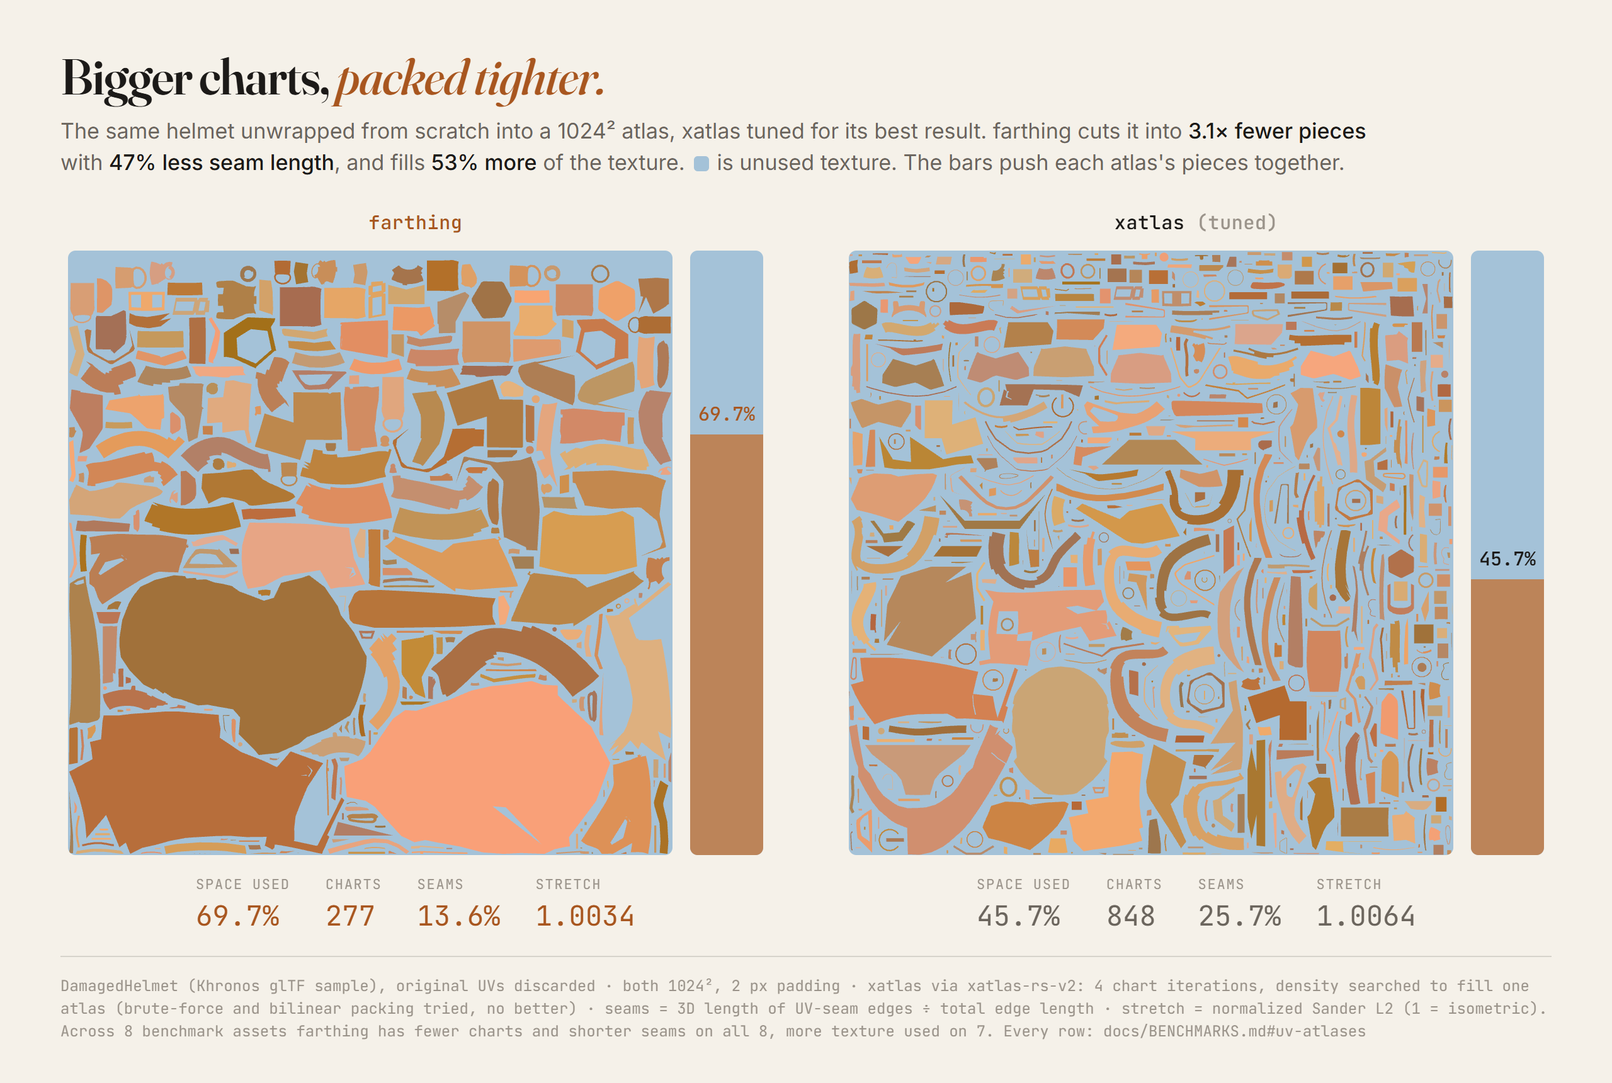
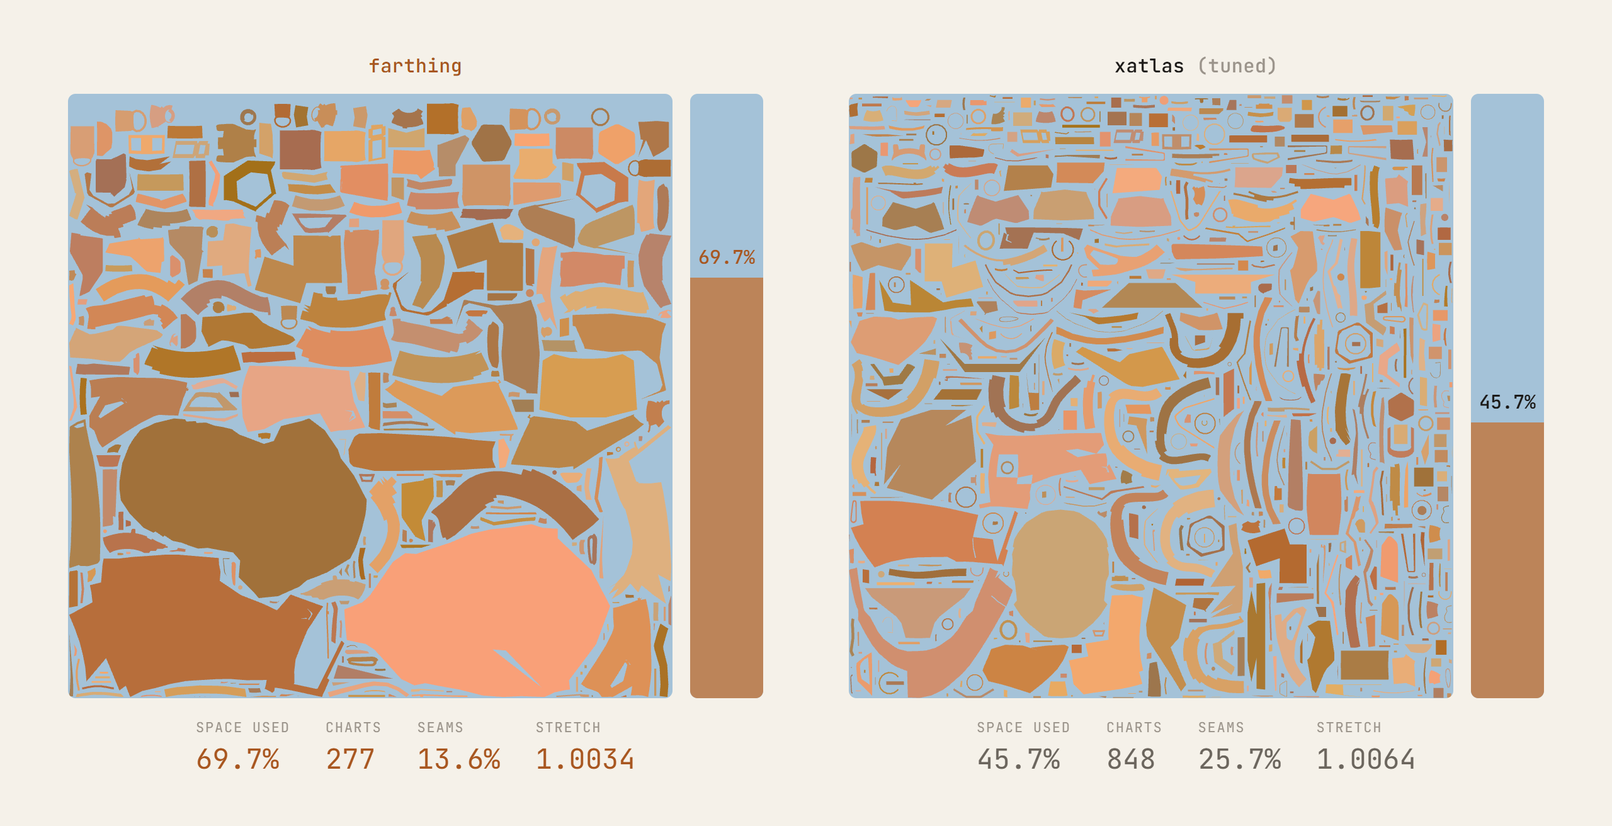
Move README figure text out of the images
The figures' titles, leads and footers were drawn into the PNGs, so search
engines, screen readers and translation couldn't reach them. The README now
carries that text: a heading in the figures' style, the lead paragraph, the
image, and the footer as a caption. The sheets drop their text and are
recaptured; the five figures without a source are cropped to the figure.
Also corrects the reducer's speed cost to 5-9x, matching BENCHMARKS.md.

diff --git a/demo-web/readme/recut.html b/demo-web/readme/recut.html
@@ -7,10 +7,9 @@
 <link rel="stylesheet" href="fig.css">
 <style>
   .head { display: flex; gap: 32px; align-items: flex-end; }
-  .head > div:first-child { flex: 1; }
   .atlas { flex: none; display: flex; gap: 14px; align-items: flex-end; }
   .atlas canvas { display: block; border-radius: 8px; }
-  .cap { width: 190px; font-family: "JetBrains Mono", monospace; font-size: 12px; color: var(--faint); line-height: 1.5; text-align: right; }
+  .cap { width: 420px; font-family: "JetBrains Mono", monospace; font-size: 13px; color: var(--faint); line-height: 1.5; }
   .cap b { color: var(--muted); font-weight: 500; }
   .grid { display: grid; grid-template-columns: 112px repeat(5, 1fr); column-gap: 14px; row-gap: 14px; margin-top: 26px; }
   .col { font-family: "JetBrains Mono", monospace; font-size: 13px; color: var(--muted); text-align: center; line-height: 1.5; }
@@ -24,14 +23,9 @@
 </head>
 <body>
 <div class="head">
-  <div>
-    <h1>One atlas, <em>every level.</em></h1>
-    <p class="sub" id="sub" style="max-width: none"></p>
-  </div>
-  <div class="atlas"><div class="cap" id="atlascap"></div><div id="atlas"></div></div>
+  <div class="atlas"><div id="atlas"></div><div class="cap" id="atlascap"></div></div>
 </div>
 <div class="grid" id="grid"></div>
-<div class="foot" id="foot"></div>
 <script type="module">
 import { theme, stats, img, canvas, int, pct, ready } from "./sheet.js";
 const r = stats.recut;
@@ -70,13 +64,6 @@ ag.drawImage(atlas, 0, 0, ac.width, ac.height);
 document.getElementById("atlas").append(ac);
 document.getElementById("atlascap").innerHTML =
   `<b>LOD0–LOD3 all draw with this</b> ${r.atlas.width}² base color atlas (and its normal and ORM twins), in place of the source's ${stats.materials} materials.`;
-document.getElementById("sub").innerHTML =
-  `<b>Recut</b> cuts the whole model's surface afresh into charts that survive mipmapping and resamples every material into one atlas at the artist's texel density. ` +
-  `LOD0 keeps every triangle; each level after it is reduced from the one before and <b>draws with the same textures</b>, so the chain costs one draw call and one texture set at any distance.`;
-document.getElementById("foot").innerHTML =
-  `${stats.model} (Khronos glTF sample, CC0) · ${int(stats.triangles)} triangles, ${stats.materials} materials · ` +
-  `recut chain, step ${0.35} · errors are measured two-way Hausdorff distance over the bounding-box diagonal · ` +
-  `drawn with the web demo's engine viewer and its editor overlays.<br>Reproduce: demo-web/readme/build.sh`;
 await ready();
 </script>
 </body>

diff --git a/demo-web/readme/splats.html b/demo-web/readme/splats.html
@@ -6,7 +6,7 @@
 <link href="https://fonts.googleapis.com/css2?family=Fraunces:ital,opsz,wght,SOFT,WONK@0,9..144,400..700,0..100,0..1;1,9..144,400..600,0..100,0..1&family=Inter:wght@400;500&family=JetBrains+Mono:wght@400;500&display=block" rel="stylesheet">
 <link rel="stylesheet" href="fig.css">
 <style>
-  .grid { display: grid; grid-template-columns: repeat(3, 1fr); column-gap: 22px; margin-top: 28px; }
+  .grid { display: grid; grid-template-columns: repeat(3, 1fr); column-gap: 22px; }
   canvas.p { display: block; border-radius: 8px; }
   .lvl { margin-top: 12px; font-family: "JetBrains Mono", monospace; font-size: 13px; color: var(--muted); line-height: 1.55; }
   .lvl .big { font-family: Fraunces, serif; font-weight: 600; font-size: 30px; color: var(--ink); line-height: 1; display: block; margin-bottom: 6px; font-variation-settings: "opsz" 96; }
@@ -17,11 +17,8 @@
 </style>
 </head>
 <body>
-<h1>From triangles <em>to Gaussians.</em></h1>
-<p class="sub" id="sub"></p>
 <div class="grid" id="grid"></div>
 <div class="close" id="close"></div>
-<div class="foot" id="foot"></div>
 <script type="module">
 import { stats, img, canvas, int, ready } from "./sheet.js";
 const s = stats.splats;
@@ -52,17 +49,6 @@ for (const [k, [src, name, big, note]] of panels.entries()) {
   cl.insertAdjacentHTML("beforeend", `<div class="tag">${name}, close up: ${(1 / crop.w).toFixed(1)}× the panel above</div>`);
   close.append(cl);
 }
-// "a, b and c": the numbers have commas of their own.
-const list = (xs) => (xs.length > 1 ? `${xs.slice(0, -1).join(", ")} and ${xs.at(-1)}` : xs.join(""));
-const kb = (b) => `${Math.round(b / 1024).toLocaleString("en-US")} KB`;
-document.getElementById("sub").innerHTML =
-  `farthing scatters a <b>progressive surfel cloud</b> over the surface, then turns the surfels into 3D Gaussian splats that any splat renderer draws. ` +
-  `Every prefix of the cloud covers the whole surface on its own, so coarser levels are just <b>shorter prefixes</b>: ` +
-  list(s.levels.map((l) => int(l.vertices))) + " splats here.";
-document.getElementById("foot").innerHTML =
-  `${stats.model} (Khronos glTF sample, CC0) · footprint Gaussians, colors averaged over each surfel's footprint · ` +
-  `as 3DGS PLY: ${list(s.levels.map((l) => kb(l.bytes)))} · surfels drawn as round discs, Gaussians blended back to front · ` +
-  `drawn with the web demo's engine viewer.<br>Reproduce: demo-web/readme/build.sh`;
 await ready();
 </script>
 </body>

diff --git a/demo-web/readme/clusters.html b/demo-web/readme/clusters.html
@@ -6,7 +6,7 @@
 <link href="https://fonts.googleapis.com/css2?family=Fraunces:ital,opsz,wght,SOFT,WONK@0,9..144,400..700,0..100,0..1;1,9..144,400..600,0..100,0..1&family=Inter:wght@400;500&family=JetBrains+Mono:wght@400;500&display=block" rel="stylesheet">
 <link rel="stylesheet" href="fig.css">
 <style>
-  .grid { display: grid; grid-template-columns: repeat(3, 1fr); column-gap: 22px; margin-top: 28px; }
+  .grid { display: grid; grid-template-columns: repeat(3, 1fr); column-gap: 22px; }
   .cell { position: relative; }
   canvas.p { display: block; border-radius: 8px; }
   .inset { position: absolute; left: 12px; top: 12px; display: flex; flex-direction: column; align-items: flex-start; gap: 4px; }
@@ -18,10 +18,7 @@
 </style>
 </head>
 <body>
-<h1>Detail only <em>where the pixels are.</em></h1>
-<p class="sub" id="sub"></p>
 <div class="grid" id="grid"></div>
-<div class="foot" id="foot"></div>
 <script type="module">
 import { stats, img, canvas, int, pct, ready } from "./sheet.js";
 const c = stats.clusters;
@@ -52,15 +49,6 @@ for (const [k, cut] of c.cuts.entries()) {
     `${int(cut.triangles)} of ${int(cut.full_triangles)} triangles<br>${int(cut.clusters)} clusters from DAG levels ${levels}</div>`);
   grid.append(cell);
 }
-document.getElementById("sub").innerHTML =
-  `A <b>cluster DAG</b> groups the mesh into clusters of at most ${c.info.max_triangles} triangles, then merges and simplifies groups of them, level by level, ` +
-  `with borders that always match. To draw, each part of the model picks the coarsest clusters whose error stays <b>under a pixel</b>. ` +
-  `One color per cluster. The three cuts are for the helmet ${c.cuts.map((x) => x.screen_px).join(", ").replace(/, (?=[^,]*$)/, " and ")} pixels tall on a 1080p screen, magnified to the same size here; the insets show them to scale.`;
-document.getElementById("foot").innerHTML =
-  `${stats.model} (Khronos glTF sample, CC0) · ${int(c.info.clusters)} clusters in ${c.info.levels} DAG levels, ${int(c.info.all_level_triangles)} triangles in all · ` +
-  `cut for a 60° view 1080 pixels high, 1 px error threshold · ` +
-  (c.cuts.every((x) => x.gpu_agrees) ? `the same cut on the CPU and through the packed GPU form · ` : ``) +
-  `drawn with the web demo's engine viewer.<br>Reproduce: demo-web/readme/build.sh`;
 await ready();
 </script>
 </body>

diff --git a/README.md b/README.md
@@ -18,103 +18,169 @@ It's a pure-Rust, engine-agnostic asset optimizer. It has no `unsafe` code, give
 output on any machine and any thread count, and is MIT-0 licensed. Use it as a library, a CLI
 or a build step.
 
-## Closer to the original at the same triangle count
+## Same triangle budget, *closer to the original.*
+
+Both tools reduced the same helmet to exactly **3,349** triangles, keeping UV seams intact.
+farthing's version renders **3.7 dB** closer to the original and its outline is **6×** tighter.
 
 <picture>
   <source media="(prefers-color-scheme: dark)" srcset="docs/images/h2h-dark.png">
   <img alt="DamagedHelmet reduced from 15,452 to 3,349 triangles by meshoptimizer and by farthing, with pixel-error maps against the original. meshoptimizer: 18.4 dB PSNR, silhouette off 1.86%. farthing: 22.1 dB, silhouette off 0.33%." src="docs/images/h2h-light.png">
 </picture>
 
+<sub>DamagedHelmet (Khronos glTF sample) · meshoptimizer simplify with attributes, farthing
+simplify, matched counts · PSNR and silhouette over three views. This is the widest gap of 24
+cases; across all 24 farthing is ahead in 21, by +1.5 dB on average. Every row:
+[docs/benchmarks/image-space-vs-meshopt.txt](docs/benchmarks/image-space-vs-meshopt.txt)</sub>
+
 farthing's reducer protects what you actually see: silhouettes, UV seams, shading normals and
-texture layout. This is the widest gap of the 24 image comparisons. Across all 24, farthing is
-ahead in 21, by +1.5 dB on average
-([every case](docs/benchmarks/image-space-vs-meshopt.txt)).
+texture layout.
+
+## A fraction of the error *at the same triangle count.*
+
+8 assets reduced to 50%, 20%, 5% and 1%, kept only where both tools landed within 3% of the
+same count. Each bar is **farthing's error as a share of meshoptimizer's** (geometric mean).
+Shorter is better; past the line, meshoptimizer wins.
 
 <picture>
   <source media="(prefers-color-scheme: dark)" srcset="docs/images/bench-dark.png">
   <img alt="Bar charts of farthing's error as a share of meshoptimizer's at matched triangle counts. Against attribute-aware meshoptimizer: worst-case distance 0.69x, mean distance 0.41x, UV error 0.27x, normal error 0.89x. Against permissive seams: 0.80x, 0.57x, 0.33x, 0.99x. Against positions-only: 1.17x (a loss), 0.62x, 0.29x, 0.40x. Also +1.5 dB in image space, 100% of triangle targets reached, and 5 to 9 times slower." src="docs/images/bench-light.png">
 </picture>
 
-Measured over 8 assets at 50%, 20%, 5% and 1% of their triangles. The price is speed:
-farthing is 5–7× slower than meshoptimizer because it measures error much more carefully.
-That's meant for a build step, not for every frame. A fast mode gets to about 2× of
-meshoptimizer's speed and still has lower distance and UV error (normals are slightly worse). Methodology and per-asset tables are in
-[docs/BENCHMARKS.md](docs/BENCHMARKS.md#triangle-reduction).
+<sub>Khronos glTF sample assets · error measured against the original: sampled two-way
+Hausdorff and mean surface distance, 90th-percentile UV error, normal angle · v8 reducer
+numbers (current defaults are slightly better) · every case:
+[docs/BENCHMARKS.md](docs/BENCHMARKS.md#triangle-reduction)</sub>
 
-## Every level comes with the distance to use it
+The price is speed: farthing is 5–9× slower than meshoptimizer because it measures error much
+more carefully. That's meant for a build step, not for every frame. A fast mode gets to about
+2× of meshoptimizer's speed and still has lower distance and UV error (normals are slightly
+worse).
+
+## Each level takes over *where the difference is a pixel.*
+
+farthing measures each level's worst-case error and reports the distance at which that error
+shrinks to **one pixel**. Here each level is rendered at exactly that distance on a 1080p
+screen, then blown up so you can see the pixels.
 
 <picture>
   <source media="(prefers-color-scheme: dark)" srcset="docs/images/switch-dark.png">
   <img alt="FlightHelmet LOD1, LOD2 and LOD3 (a quarter, a sixteenth and a sixty-fourth of the triangles) rendered at their reported switch distances on a 1080p screen next to the original, magnified, with difference maps. 1%, 5% and 16% of pixels differ by more than 10%." src="docs/images/switch-light.png">
 </picture>
 
-farthing measures each level's worst-case deviation from the original and turns it into a
-switch distance: the point where that error is one pixel on a 1080p screen. You don't have to
-tune distances by eye. The farthest level here is a baked proxy, one new mesh with a new UV
-atlas and color, normal and roughness/metal textures baked from the original. Most of its
-difference is the glass visor, which an opaque proxy can't reproduce.
+<sub>FlightHelmet (Khronos glTF sample, CC0) · 1920×1080, 60° vertical FOV, 4× MSAA ·
+distances in model units (meters) · error is a sampled two-way Hausdorff distance. LOD3 is a
+baked proxy (one new mesh, new UV atlas, color, normal and roughness/metal baked from the
+original). Much of its difference is the glass visor, which an opaque proxy can't
+reproduce.</sub>
 
-## UV atlases with fewer seams and less wasted texture
+That distance is the level's switch distance, so every LOD comes with the point to use it and
+you don't have to tune distances by eye.
+
+## Bigger charts, *packed tighter.*
+
+The same helmet unwrapped from scratch into a 1024² atlas, xatlas tuned for its best result.
+farthing cuts it into **3.1× fewer pieces** with **47% less seam length**, and fills **53%
+more** of the texture. Blue is unused texture. The bars push each atlas's pieces together.
 
 <picture>
   <source media="(prefers-color-scheme: dark)" srcset="docs/images/atlas-dark.png">
   <img alt="DamagedHelmet unwrapped into a 1024 by 1024 atlas by farthing and by xatlas tuned for its best result, with unused texture shown in blue and a bar of each atlas's pieces pushed together. farthing: 69.7% of the texture used, 277 charts, 13.6% seams, stretch 1.0034. xatlas: 45.7%, 848 charts, 25.7%, 1.0064." src="docs/images/atlas-light.png">
 </picture>
 
-Far levels need a fresh UV atlas to bake into. Against xatlas at its best settings, with
-both packed into the same 1024² atlas, farthing makes fewer charts with shorter seams on
-all 8 benchmark assets and uses more of the texture on 7 (67% on average, against 59%).
-Stretch is a near tie: farthing is lower on 5 assets, and every result is within 1% of
-isometric ([data](docs/BENCHMARKS.md#uv-atlases)). The packer is available on its own as
-[`snugly`](https://crates.io/crates/snugly).
+<sub>DamagedHelmet (Khronos glTF sample), original UVs discarded · both 1024², 2 px padding ·
+xatlas via xatlas-rs-v2: 4 chart iterations, density searched to fill one atlas (brute-force
+and bilinear packing tried, no better) · seams = 3D length of UV-seam edges ÷ total edge
+length · stretch = normalized Sander L2 (1 = isometric). Every row:
+[docs/BENCHMARKS.md](docs/BENCHMARKS.md#uv-atlases)</sub>
 
-## One atlas for the whole chain
+Far levels need a fresh UV atlas to bake into. Across 8 benchmark assets, farthing makes fewer
+charts with shorter seams on all 8 and uses more of the texture on 7 (67% on average, against
+59%). Stretch is a near tie: farthing is lower on 5 assets, and every result is within 1% of
+isometric. The packer is available on its own as [`snugly`](https://crates.io/crates/snugly).
+
+## One atlas, *every level.*
+
+**Recut** cuts the whole model's surface afresh into charts that survive mipmapping and
+resamples every material into one atlas at the artist's texel density. LOD0 keeps every
+triangle; each level after it is reduced from the one before and **draws with the same
+textures**, so the chain costs one draw call and one texture set at any distance.
 
 <picture>
   <source media="(prefers-color-scheme: dark)" srcset="docs/images/recut-dark.png">
   <img alt="FlightHelmet recut: the original (94,722 triangles, 6 materials) next to LOD0 to LOD3 at 94,722, 33,152, 11,603 and 4,061 triangles, 0.24%, 0.71% and 2.2% off. Each is half shaded and half overlaid with its UV seams in one row and its triangles in the other. All four levels draw with one 2048 by 2048 atlas." src="docs/images/recut-light.png">
 </picture>
 
-The browser demo's default chain starts with a recut. It merges the model into one mesh,
-unwraps it afresh with charts that hold up under mipmapping, and bakes every material into one
-atlas at the artist's texel density. LOD0 keeps every triangle. Each later level is reduced
-from the one before and keeps the same UVs, so the whole chain is one draw call with one
-texture set, which the GPU mips as usual.
+<sub>FlightHelmet.gltf (Khronos glTF sample, CC0) · 94,722 triangles, 6 materials · recut
+chain, step 0.35 · errors are measured two-way Hausdorff distance over the bounding-box
+diagonal · drawn with the web demo's engine viewer and its editor overlays. Reproduce:
+[demo-web/readme/build.sh](demo-web/readme/build.sh)</sub>
 
-## Impostors for the far distance
+The browser demo's default chain starts with a recut, which first merges the model into one
+mesh. The GPU mips the shared atlas as usual.
+
+## Far away, *two triangles.*
+
+Once a model is small on screen, farthing captures it from 144 directions into one texture and
+draws it as a single camera-facing card. Each atlas is sized for one texel per screen pixel at
+the size it's used. Here each is shown **at exactly that size**, from angles between the
+captured ones, then magnified.
 
 <picture>
   <source media="(prefers-color-scheme: dark)" srcset="docs/images/impostor-dark.png">
   <img alt="An octahedral impostor atlas of DamagedHelmet (12 by 12 views), and the 15,452-triangle mesh next to its 2-triangle impostor at 160, 96 and 48 pixels on screen, magnified, with difference maps. 27.5, 28.5 and 25.1 dB." src="docs/images/impostor-light.png">
 </picture>
 
-Past a hundred pixels or so, a whole model becomes one card. farthing plans the views, your
-engine renders them with its real materials, and farthing assembles a relightable atlas sized
-for one texel per screen pixel. It ships with a reference shader that blends between views
-and marches depth for parallax.
+<sub>DamagedHelmet (Khronos glTF sample) · captured and drawn by engine-poc's own wgpu
+renderer through farthing's host interface · mesh reference 4× supersampled · octahedral
+layout, 12×12 frames, 2× supersampled capture · PSNR over covered pixels · edge = pixels
+covered by only one of the two. Reproduce: `farthing-poc-engine impostor_shot DamagedHelmet.glb
+out 160 96 48`</sub>
 
-## Cluster LOD that follows the pixels
+These are octahedral impostors. farthing plans the views, your engine renders them with its
+real materials, and farthing assembles a relightable atlas. It ships with a reference shader
+that blends between views and marches depth for parallax.
+
+## Detail only *where the pixels are.*
+
+A **cluster DAG** groups the mesh into clusters of at most 128 triangles, then merges and
+simplifies groups of them, level by level, with borders that always match. To draw, each part
+of the model picks the coarsest clusters whose error stays **under a pixel**. One color per
+cluster. The three cuts are for the helmet 800, 200 and 50 pixels tall on a 1080p screen,
+magnified to the same size here; the insets show them to scale.
 
 <picture>
   <source media="(prefers-color-scheme: dark)" srcset="docs/images/clusters-dark.png">
   <img alt="FlightHelmet's cluster DAG (1,496 clusters in 8 levels), one color per cluster, cut for the helmet 800, 200 and 50 pixels tall on a 1080p screen at a one-pixel error: 73,677, 29,359 and 10,818 triangles from 577, 233 and 87 clusters. Insets show each cut at its real size." src="docs/images/clusters-light.png">
 </picture>
 
-For Nanite-style renderers, farthing builds a cluster DAG with borders that always match. Each
-part of the model picks the coarsest clusters whose error stays under a pixel, so detail goes
-where the screen can show it. The select test is per cluster and needs no traversal. Its
-packed form is ready to upload to the GPU.
+<sub>FlightHelmet.gltf (Khronos glTF sample, CC0) · 1,496 clusters in 8 DAG levels, 188,887
+triangles in all · cut for a 60° view 1080 pixels high, 1 px error threshold · the same cut on
+the CPU and through the packed GPU form · drawn with the web demo's engine viewer. Reproduce:
+[demo-web/readme/build.sh](demo-web/readme/build.sh)</sub>
 
-## Surfels and Gaussian splats
+This is cluster LOD for Nanite-style renderers. The select test is per cluster and needs no
+traversal, and the packed form is ready to upload to the GPU.
+
+## From triangles *to Gaussians.*
+
+farthing scatters a **progressive surfel cloud** over the surface, then turns the surfels into
+3D Gaussian splats that any splat renderer draws. Every prefix of the cloud covers the whole
+surface on its own, so coarser levels are just **shorter prefixes**: 20,000, 5,000 and 1,250
+splats here.
 
 <picture>
   <source media="(prefers-color-scheme: dark)" srcset="docs/images/splats-dark.png">
   <img alt="FlightHelmet as a 94,722-triangle mesh, as 20,000 surfels drawn as discs, and as 20,000 3D Gaussian splats shaped by the surface each one covers, with close-ups of the goggles. As 3DGS PLY files, 20,000, 5,000 and 1,250 splats are 1,329, 332 and 83 KB." src="docs/images/splats-light.png">
 </picture>
 
-A progressive surfel cloud covers the whole surface at any prefix length, so coarser levels are
-just shorter prefixes. farthing exports it as 3D Gaussian splats in `.ply`, each shaped to
-the surface patch it stands for, so any splat renderer can draw it.
+<sub>FlightHelmet.gltf (Khronos glTF sample, CC0) · footprint Gaussians, colors averaged over
+each surfel's footprint · as 3DGS PLY: 1,329 KB, 332 KB and 83 KB · surfels drawn as round
+discs, Gaussians blended back to front · drawn with the web demo's engine viewer. Reproduce:
+[demo-web/readme/build.sh](demo-web/readme/build.sh)</sub>
+
+The splats export as a standard 3DGS `.ply`, each one shaped to the surface patch it stands
+for.
 
 ## What's in the box
 

diff --git a/docs/images/README.md b/docs/images/README.md
@@ -6,12 +6,20 @@
 | `recut-light.png`, `recut-dark.png` | 2560 wide | README: a recut chain sharing one atlas |
 | `clusters-light.png`, `clusters-dark.png` | 2560 wide | README: cluster DAG cuts at three distances |
 | `splats-light.png`, `splats-dark.png` | 2560 wide | README: the mesh, its surfels and its Gaussians |
+| `h2h`, `bench`, `switch`, `atlas`, `impostor` (`-light.png`, `-dark.png`) | 2560 wide | README: the comparisons against meshoptimizer and xatlas, switch distances, impostors |
 | `social.png` | 1280 × 640 | GitHub social preview (Settings → General → Social preview) and Open Graph |
 
 The models are real farthing output: the Flight Helmet's LOD chain at a step of 0.25, built by
 the browser demo's pipeline (`demo-web/src/pipeline.rs`). LOD1 and LOD2 are reduced and keep the
 original materials; LOD3 is a merged, unwrapped proxy with baked base color and normals. The
 left half of each model is shaded and the right half shows its wireframe.
+
+The figures below the banner carry no title, lead or footer: the README has that text, so
+it can be searched, read by screen readers and translated. Each section there is the figure's
+heading (with the italic accent the figures used), its lead paragraph, the image, and the
+footer as a `<sub>` caption. When a figure's numbers change, change that text with it.
+`h2h`, `bench`, `switch`, `atlas` and `impostor` have no source in the repo; they were cropped
+from earlier sheets that had the text drawn in.
 
 ## Recut, clusters and splats
 
@@ -21,7 +29,8 @@ Chrome, or a Chrome path as its argument). It fetches the samples if needed, run
 browser demo's pipeline and renders headless with the PoC engine's viewer and its
 `editor_visualizations` overlays into `demo-web/readme/out/`, and then has headless Chrome lay
 out the sheets in `demo-web/readme/*.html` and capture them here, light and dark. Each sheet is
-as tall as its content. The numbers on the sheets come from the same run (`out/readme.json`).
+as tall as its content. The numbers on the sheets come from the same run (`out/readme.json`);
+the README's text around them quotes that run, so update it when they change.
 
 Model: [Flight Helmet](https://github.com/KhronosGroup/glTF-Sample-Assets/tree/main/Models/FlightHelmet)
 by Gary Hsu, from the Khronos glTF Sample Assets, CC0 1.0.
